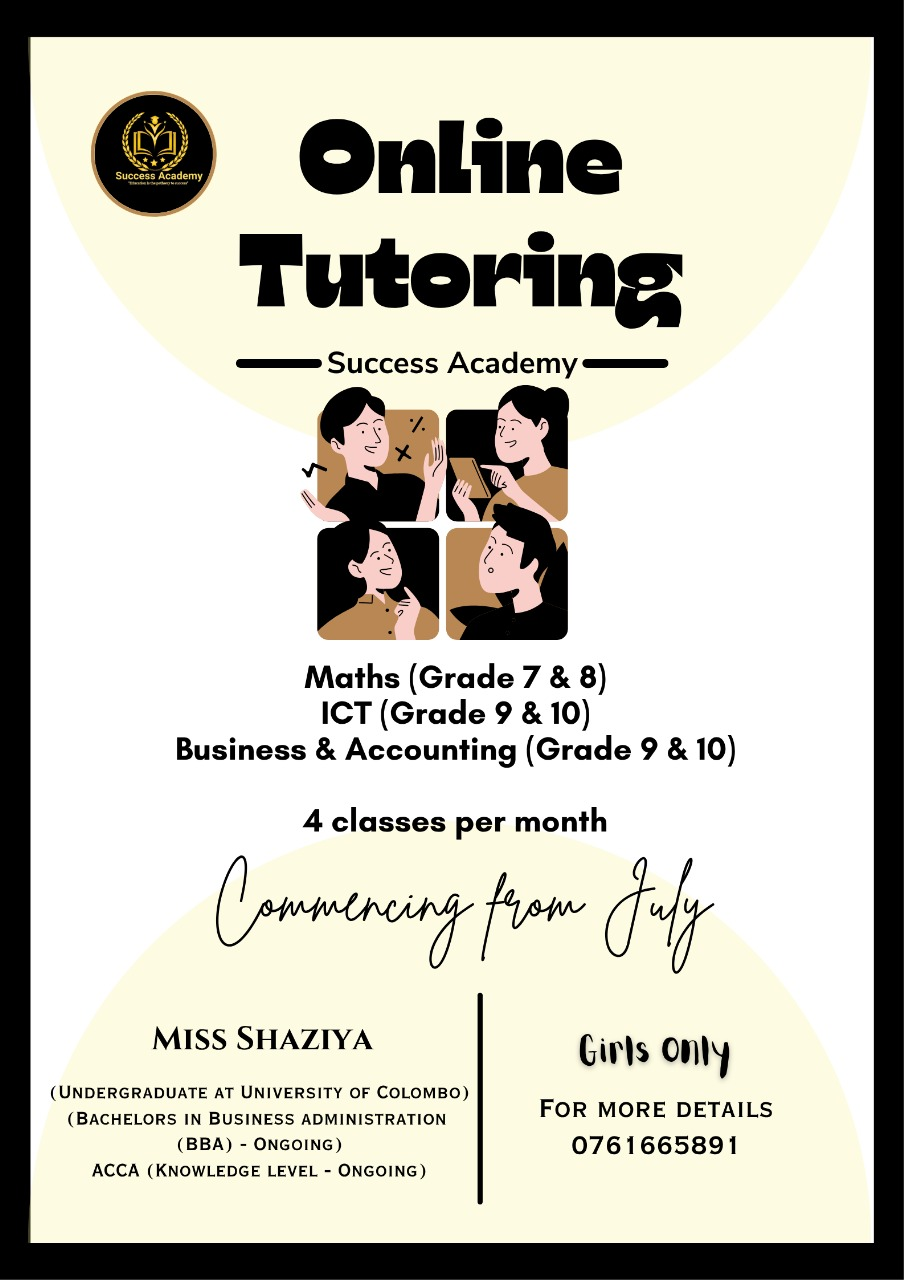
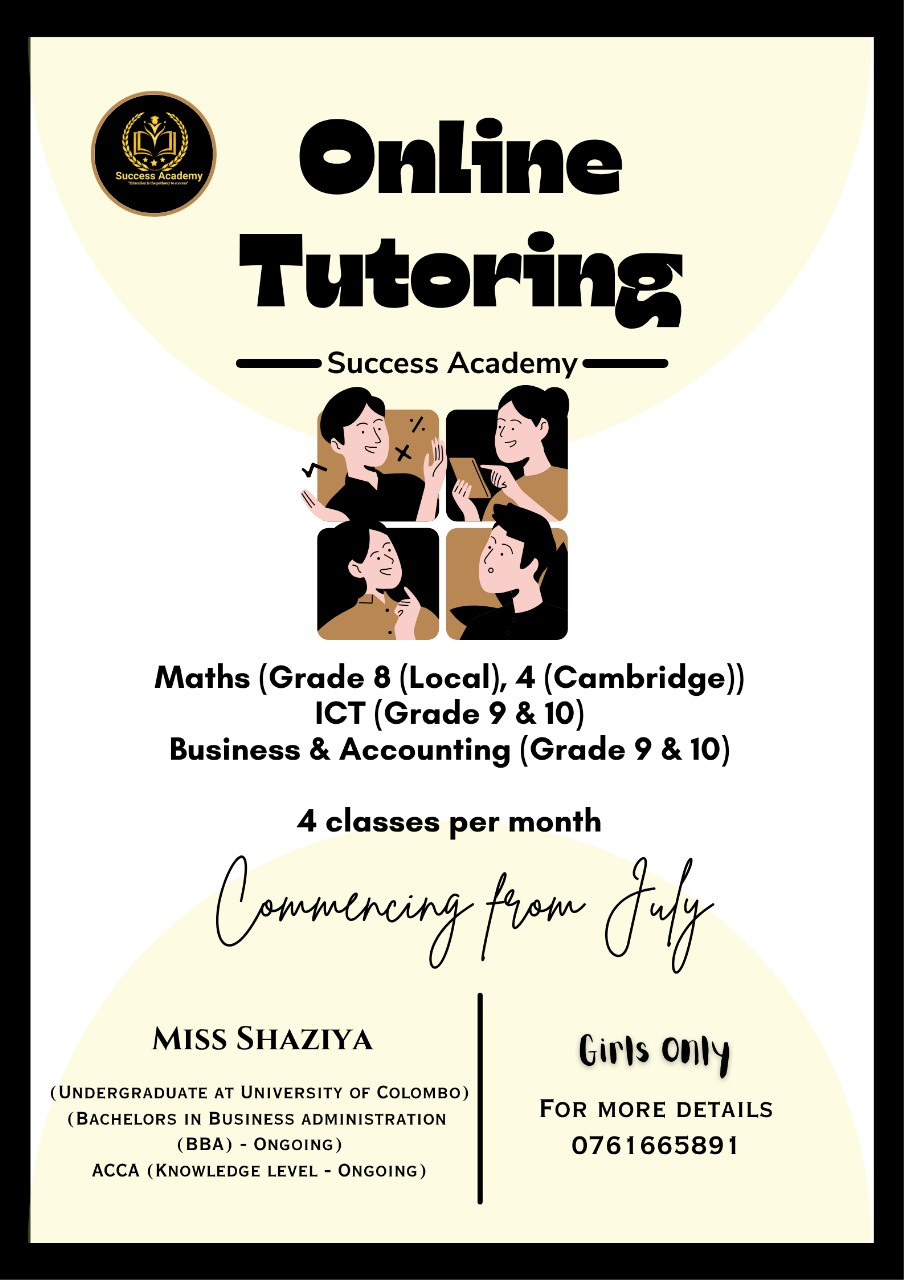
Add files via upload

Changed region(s): [[0.1549, 0.5, 0.8363, 0.6562]]

diff --git a/tutors.html b/tutors.html
@@ -204,7 +204,7 @@ footer {
         <img src="girlpic.png" alt="Miss Shaziya" class="tutor-pic" />
         <h3 class="tutor-name">Miss Shaziya</h3>
         <p class="tutor-description">Inspiring young minds in Maths and Business.</p>
-        <p class="tutor-subjects">Maths [4 (Cambridge) 7-8 (Local)], ICT (9–10), Business/Accounting (9–10)</p>
+        <p class="tutor-subjects">Maths [4 (Cambridge) 8 (Local)], ICT (9–10), Business/Accounting (9–10)</p>
       </div>
 
       <div class="tutor-card">
